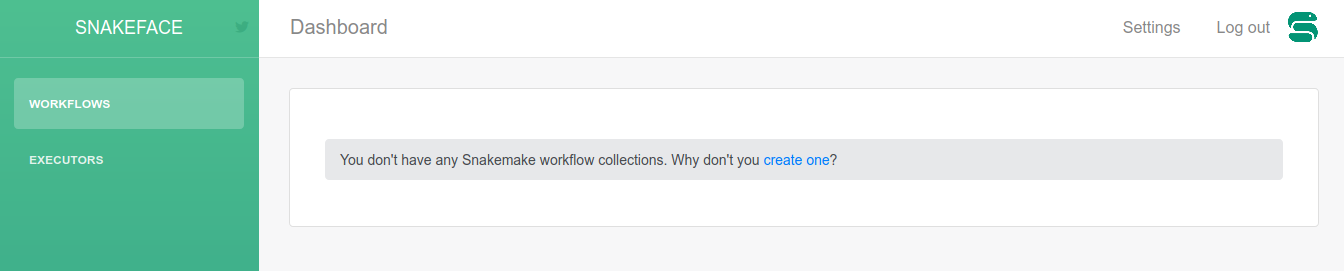
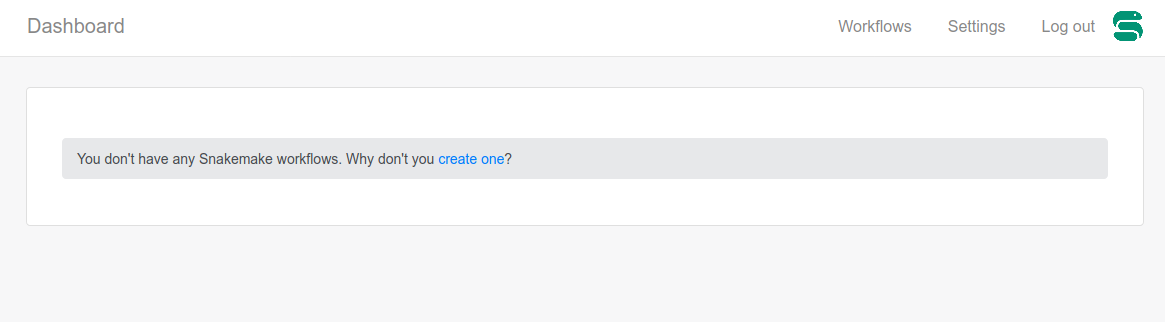
removing green sidebar, adding parsing of messages into table

Changed region(s): [[0.0, 0.0, 0.9579, 1.0], [0.2472, 0.5609, 0.6489, 0.6199], [0.7107, 0.0295, 0.9888, 0.1771]]

diff --git a/snakeface/apps/main/templates/workflows/workflow_run_table.html b/snakeface/apps/main/templates/workflows/workflow_run_table.html
@@ -1,31 +1,41 @@
+{% load my_filters %}
 {% if workflow.workflowstatus_set.count > 0 %}<div class="row">
     <div class="col">
         <div class="card">
            <div class="card-body">
-             <table id="taskTable" class="tablesorter table table-striped" width="100%">
+             {% with fields=workflow.message_fields %}
+             <table id="taskTable" class="table table-striped table-bordered compact" width="100%">
                <thead>
                     <tr>
-                       <th class="text-nowrap" width="30%">Name</th>
-                       <th width="35%">Executor</th>
+                       <th>Order</th>
+                       {% for field in fields %}
+                       <th>{{ field }}</th>{% endfor %}
                    </tr>
               </thead>
               <tbody>{% for status in workflow.workflowstatus_set.all %}
-                   <tr>
-                      <td>{{ status.msg }}</td>
-                      <td></td>
+                   <tr><td>{{ forloop.counter }}</td>
+                      {% for field in fields %}
+                      {% if field == "level" %}
+                         {% with level=status.msg|lookup:field %}
+                         {% include "fields/level.html" %}
+                         {% endwith %}
+                      {% else %}
+                        {% if field in status.msg %}<td>{{ status.msg|lookup:field }}</td>{% else %}<td></td>{% endif %}
+                      {% endif %}{% endfor %}
                    </tr>
               {% endfor %}</tbody>
-              </table>{% endif %}
-               {% if workflow.workflowrun_set.count > 0 %}<div class="card-footer ">
-                  <div class="legend">
+              </table>
+              {% endwith %}
+              <div class="card-footer">
+                  <!--<div class="legend">
                      <i class="fa fa-circle text-success"></i> Completed
                      <i class="fa fa-circle text-info"></i> Running
                      <i class="fa fa-circle text-danger"></i> Error
                      <i class="fa fa-circle text-warning"></i> Warning
-                  </div>
+                  </div>-->
                   <hr>
                   <div class="stats">
-                  <i class="fa fa-history"></i> Updated 3 minutes ago
+                  <i class="fa fa-history"></i> Last updated {{ workflow.workflowstatus_set.all.last.modify_date|timesince }} ago.
                  </div>
            </div>
         </div>

diff --git a/snakeface/apps/main/templates/main/index.html b/snakeface/apps/main/templates/main/index.html
@@ -1,6 +1,16 @@
 {% extends "base/page.html" %}
 {% load static %}
 {% block page_title %}Workflows{% endblock %}
+{% block css %}
+<style>
+code {
+    color: rgb(0, 123, 255);
+    display: inline-block;
+    max-width: 1400px;
+    padding: 10px;
+}
+</style>
+{% endblock %}
 {% block content %}
     <div class="row">
         <div class="col-md-12">
@@ -9,16 +19,22 @@
                     <p class="card-category">{{ BACKENDS_ENABLED }}</p>
                 </div>
                 <div class="card-body">
-                    {% if workflows %}<table id="taskTable" class="table table-striped table-bordered"  width="100%">
+                    {% if workflows %}
+                      <div style='padding-bottom:25px'>
+                          <a type="button" role="button" class="btn btn-primary" href="{% url 'main:new_workflow' %}">New Workflow</a>
+                      </div>
+                      <table id="taskTable" class="table table-striped table-bordered"  width="100%">
                       <thead>
-                           <th>Name</th>
-                           <th>Workdir</th>
-                           <th>Executor</th>
+                           <th>Id</th>
+                           <th>Snakefile</th>
+                           <th>Command</th>
+                           <th>Actions</th>
                       </thead>
                       <tbody>{% for workflow in workflows %}
                           <tr>
                             <td>{{ workflow.id }}</td>
-                            <td>{{ workflow.workdir }}</td>
+                            <td>{{ workflow.snakefile }}</td>
+                            <td><code>{{ workflow.command }}</code></td>
                             <td><button class="btn btn-primary"><a href="{% url 'main:view_workflow' workflow.id %}">View</a></button></td>
                           </tr>
                       {% endfor %}</tbody>
@@ -30,6 +46,7 @@
             </div>
         </div>
     </div>
+</div>
 {% endblock %}
 {% block scripts %}
 <script>

diff --git a/snakeface/apps/main/templates/workflows/detail.html b/snakeface/apps/main/templates/workflows/detail.html
@@ -15,7 +15,14 @@ code {
 {% endblock %}
 {% block content %}
 <div class="row">
-    <div class="col">
+    {% if workflow.dag %}<div class="col-md-4">
+        <div class="card">
+           <div class="card-body">
+           {{ workflow.dag | safe }}
+           </div>
+        </div>
+    </div>{% endif %}
+    <div class="col-md-{% if workflow.dag %}8{% else %}12{% endif %}">
         <div class="card">
            <div class="card-body">
            <table class="tablesorter table table-striped" width="100%">
@@ -48,15 +55,12 @@ code {
     </div>
 </div>
 
-{% if workflow.dag or workflow.workflowstatus_set.count > 0 %}<div class="row">
+{% if workflow.workflowstatus_set.count > 0 %}<div class="row">
     <div class="col">
         <div class="card">
            <div class="card-body">
                <div class="row">
-                   {% if workflow.dag %}<div class="col-md-6">
-                   {{ workflow.dag | safe }}
-                   </div>{% endif %}
-                   {% if workflow.workflowstatus_set.count > 0 %}<div class="col-md-6">
+                   {% if workflow.workflowstatus_set.count > 0 %}<div class="col-md-12">
                    {% include "workflows/workflow_run_table.html" %}
                    </div>{% endif %}
                </div>
@@ -69,6 +73,7 @@ code {
 {% block scripts %}
 <script>
 $(document).ready(function(){
+   {% if workflow.workflowstatus_set.count > 0 %}$("#taskTable").DataTable({"pageLength": 25});{% endif %}
 });
 </script>
 {% endblock %}

diff --git a/snakeface/apps/base/templates/base/navigation.html b/snakeface/apps/base/templates/base/navigation.html
@@ -12,6 +12,11 @@
                         </ul>
                         <ul class="navbar-nav ml-auto">
                             <li class="nav-item">
+                                <a class="nav-link" href="{% url 'main:dashboard' %}">
+                                    <span class="no-icon">Workflows</span>
+                                </a>
+                            </li>
+                            <li class="nav-item">
                                 <a class="nav-link" href="#">
                                     <span class="no-icon">Settings</span>
                                 </a>

diff --git a/snakeface/apps/base/templates/base/base.html b/snakeface/apps/base/templates/base/base.html
@@ -37,6 +37,7 @@
         <link href="{% static 'css/themify-icons.css' %}" rel="stylesheet" type="text/css" media="all" />
         <link href="{% static 'css/light-bootstrap-dashboard.css' %}" rel="stylesheet" />
         <link href="{% static 'css/custom.css' %}" rel="stylesheet" type="text/css" media="all" />
+        <link rel="stylesheet" href="https://cdn.datatables.net/1.10.22/css/jquery.dataTables.min.css" type="text/css">
         <link rel="stylesheet" href="https://cdn.datatables.net/1.10.23/css/dataTables.bootstrap4.min.css" type="text/css">
         
         {% block fonts %}{% endblock %}

diff --git a/snakeface/apps/main/templates/fields/level.html b/snakeface/apps/main/templates/fields/level.html
@@ -1,0 +1,6 @@
+<td>{% if level == "debug" or level == "dag_debug" %}<span class="badge badge-primary">{{ level }}</span>
+    {% elif level == "info" %} <span class="badge badge-info">{{ level }}</span>
+    {% elif level == "warning" %}<span class="badge badge-warning">{{ level }}</span>
+    {% elif level == "danger" %}<span class="badge badge-danger">{{ level }}</span>
+    {% else %}<span class="badge badge-secondary">{{ level }}</span>{% endif %}
+</td>

diff --git a/snakeface/apps/base/static/css/custom.css b/snakeface/apps/base/static/css/custom.css
@@ -25,3 +25,17 @@ btn {
     top: 36% !important;
     right: 25px !important;
 }
+
+/* Data tables */
+
+table.dataTable thead th, table.dataTable thead td {
+    border-bottom: 1px solid #CCC !important;
+}
+
+div.dataTables_wrapper div.dataTables_length select {
+    width: 45px !important;
+}
+
+table.dataTable.no-footer {
+    border-bottom: 1px solid #CCC !important;
+}

diff --git a/snakeface/apps/base/templates/base/page.html b/snakeface/apps/base/templates/base/page.html
@@ -2,7 +2,6 @@
 {% load static %}
 {% block container %}
     <div class="wrapper">
-        {% include "base/sidebar.html" %}
         <div class="main-panel">
             {% include "base/navigation.html" %}
             {% include "messages/message.html" %}

diff --git a/snakeface/apps/base/static/css/light-bootstrap-dashboard.css b/snakeface/apps/base/static/css/light-bootstrap-dashboard.css
@@ -690,8 +690,6 @@ body>.navbar-collapse[data-color="purple"]:after {
 .main-panel {
     background: rgba(203, 203, 210, 0.15);
     position: relative;
-    float: right;
-    width: calc(100% - 260px);
     min-height: 100%;
 }
 

diff --git a/snakeface/apps/main/templates/workflows/new.html b/snakeface/apps/main/templates/workflows/new.html
@@ -10,8 +10,7 @@
 code {
     color: rgb(0, 123, 255);
     display: inline-block;
-    max-width: 1400px;
-    padding: 10px;
+    padding: 10px 50px;
 }
 .sticky-bottom {
     flex-direction: row;

diff --git a/snakeface/apps/api/views.py b/snakeface/apps/api/views.py
@@ -12,6 +12,8 @@ from rest_framework.response import Response
 from rest_framework.views import APIView
 from .permissions import check_user_authentication
 
+import json
+
 
 class ServiceInfo(RatelimitMixin, APIView):
     """Return a 200 response to indicate a running service. Note that we are
@@ -86,15 +88,14 @@ class CreateWorkflow(RatelimitMixin, APIView):
         # If we don't have a workflow, create one
         if not workflow:
 
-            # TODO what other metadata can snakemake pass here?
-            # snakefile
-            # workdir
-            # snakemake_id
-            # name?
-            workflow = Workflow()
+            # Add additional metadata to creation
+            snakefile = request.POST.get("snakefile")
+            workdir = request.POST.get("workdir")
+            command = request.POST.get("command")
+            workflow = Workflow(snakefile=snakefile, workdir=workdir, command=command)
+            workflow.save()
             if user:
                 workflow.owners.add(user)
-            workflow.save()
 
         data = {"id": workflow.id}
         return Response(status=200, data=data)
@@ -127,8 +128,9 @@ class UpdateWorkflow(RatelimitMixin, APIView):
             if workflow and user not in workflow.owners.all():
                 return Response(403)
 
+        # The message should be json dump of attributes
+        message = json.loads(request.POST.get("msg", {}))
+
         # Update the workflow with a new status message
-        workflow_status = WorkflowStatus.objects.create(
-            workflow=workflow, msg=request.POST.get("msg", {})
-        )
+        workflow_status = WorkflowStatus.objects.create(workflow=workflow, msg=message)
         return Response(status=200, data={})

diff --git a/snakeface/apps/main/models.py b/snakeface/apps/main/models.py
@@ -9,7 +9,7 @@ from django.db import models
 from django.apps import apps
 from django.contrib.humanize.templatetags.humanize import intcomma
 from django.urls import reverse
-from django.utils.safestring import mark_safe
+from django.utils.timesince import timesince
 
 
 from django.conf import settings
@@ -75,12 +75,6 @@ class Workflow(models.Model):
     workflow runs.
     """
 
-    repository = models.CharField(
-        max_length=250,
-        unique=True,
-        blank=False,
-        null=False,
-    )
     name = models.CharField(max_length=250, unique=True, blank=True, null=True)
     data = JSONField(blank=False, null=False, default="{}")
     dag = models.TextField(blank=True, null=True)
@@ -116,6 +110,13 @@ class Workflow(models.Model):
         default=cfg.PRIVATE_ONLY,
         verbose_name="Accessibility",
     )
+
+    @property
+    def message_fields(self):
+        fields = set()
+        for status in self.workflowstatus_set.all():
+            [fields.add(x) for x in status.msg]
+        return fields
 
     def has_view_permission(self):
         if cfg.NOTEBOOK or cfg.NOTEBOOK_ONLY:
